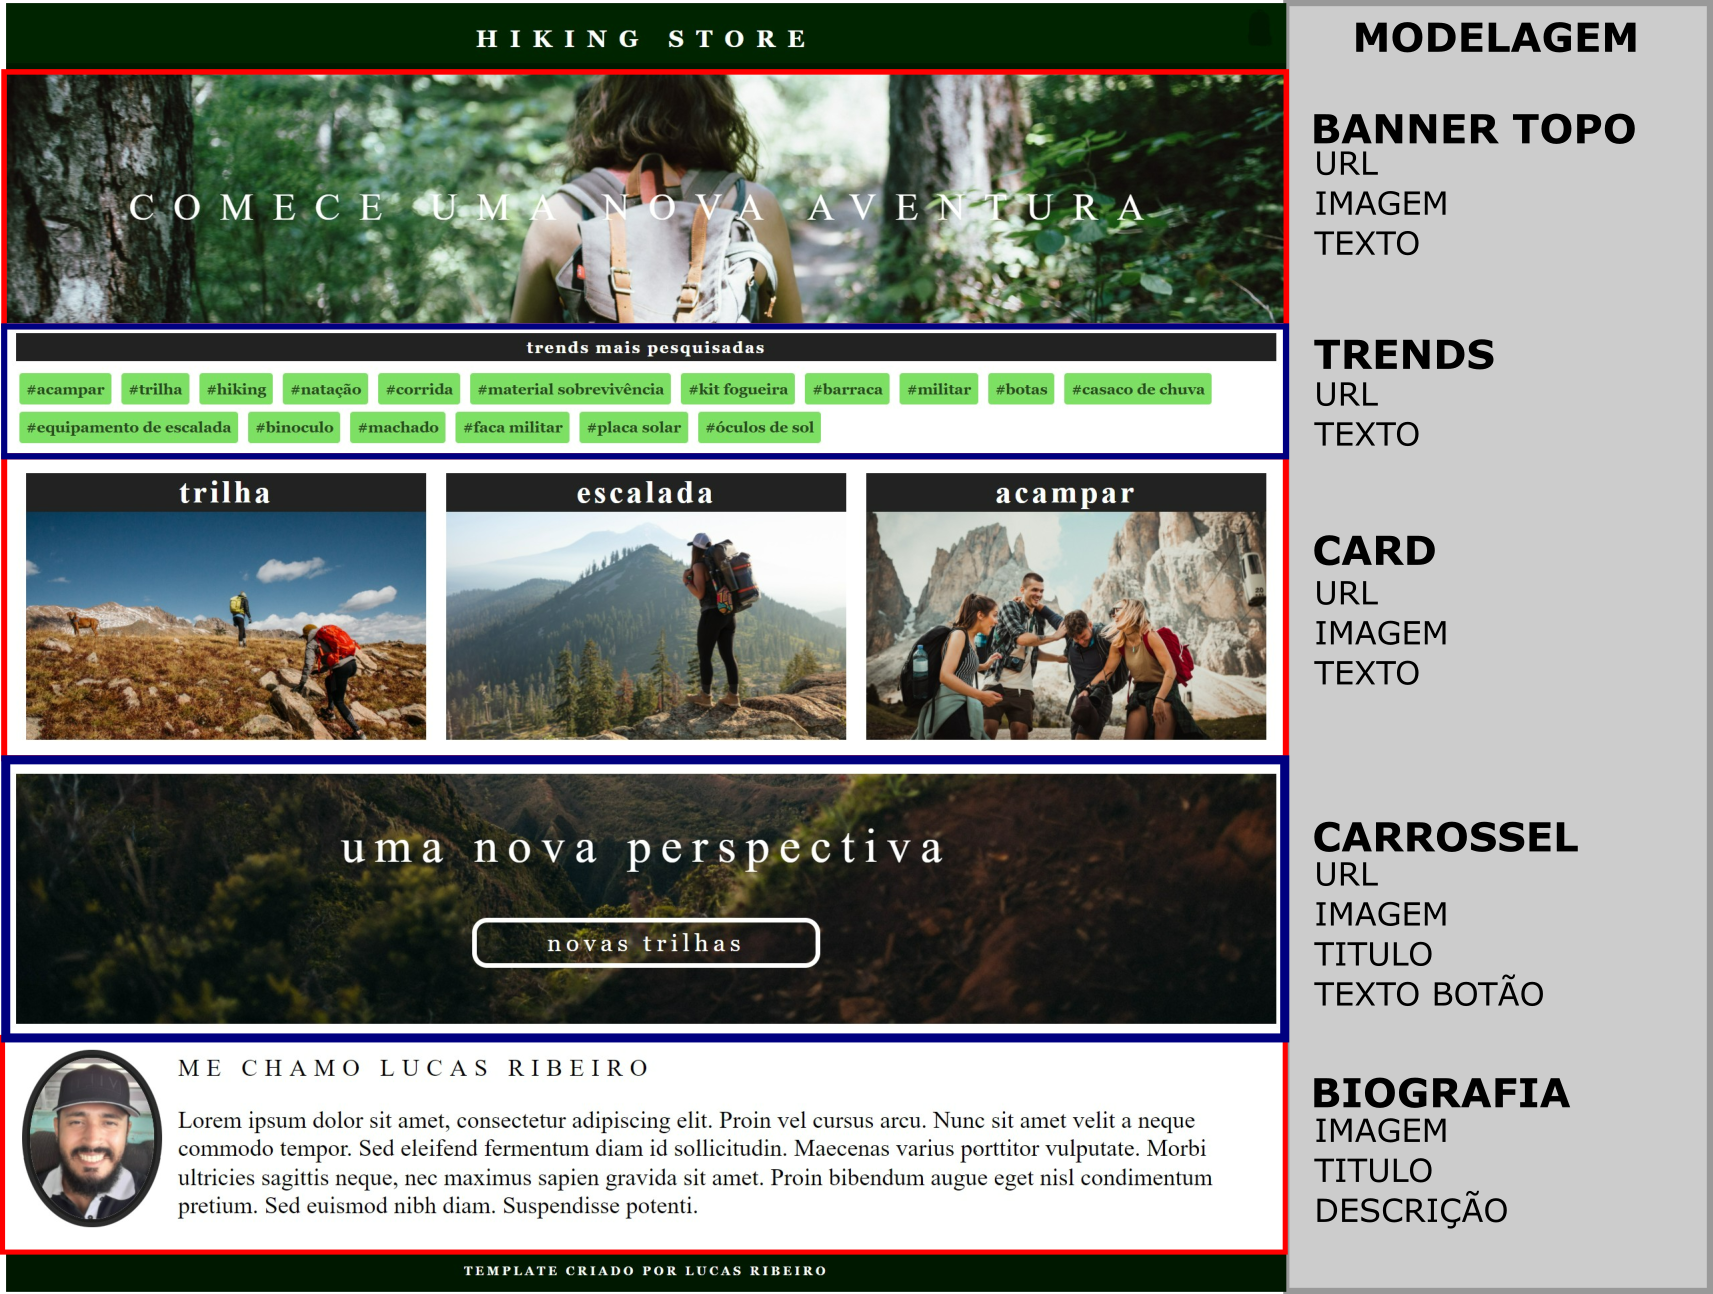
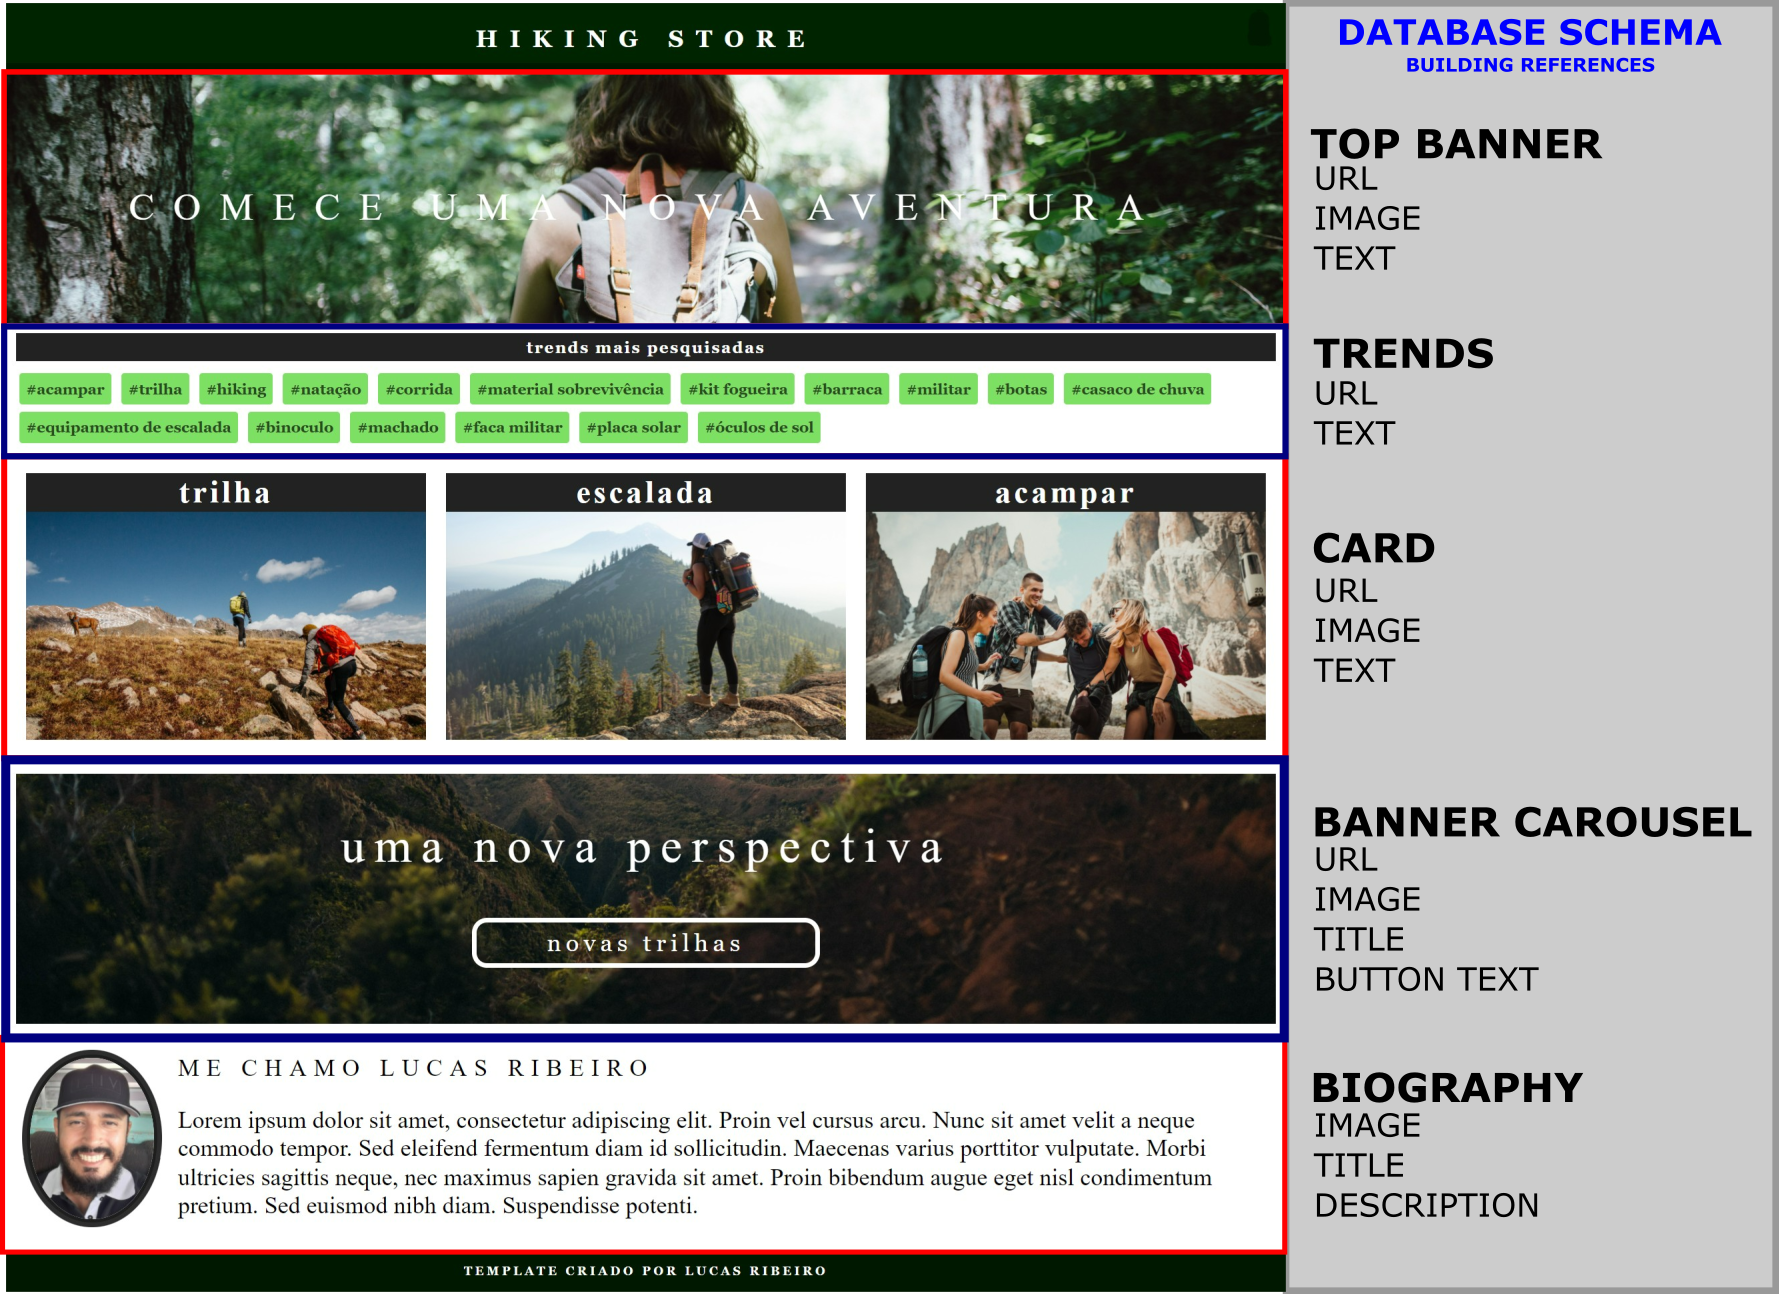
Translating to English Language

diff --git a/README.md b/README.md
@@ -1,4 +1,4 @@
-# Projeto Desenvolvido em HTML, CSS e Javascript
+# This project was developed with HTML, CSS, and JAVASCRIPT
 
 # Live Site
 https://lribeirodev.github.io/ProjetoWEM/
@@ -9,19 +9,19 @@ https://lribeirodev.github.io/ProjetoWEM/
 ## Desktop View
 <img src="/../master/static_files/screenshots/desktop.png" width="600px"/>
 
-## Conteúdo modelado para o projeto
+## Mackup Content Project
 
-### Modulos marcados no código
+### The code below shows us the components
 <img src="/../master/static_files/modelagem/Modulos.png" width="600px"/>
 
-### Modelagem feita na página
+### The webpage below shows us possible database schema
 <img src="/../master/static_files/modelagem/Modelagem.png" width="600px"/>
 
-<h2> Observações: </h2>
+<h2> Notes: </h2>
 <ul>
-<li>Aspecto #1 na criação do CTD devemos considerar que devem existir referências de imagem no formato desktop e mobile</li>
-
-<li>Aspecto #2 a modelagem é apenas uma base do modelo mais próximo do real, podendo em sua implementação ter alterações por exemplo na criação da tabela, o nome da coluna URL_IMAGEM_DESKTOP é melhor que URL_IMAGEM apenas.</li>
-
-<li>Aspecto #3 ao modelar a página, consideramos apenas um elemento base de cada modulo para seguirmos com a criação de sua FORMA para BOLO, assim uma imagem e texto que se repete varias vezes e tem o mesmo design utilizarão apenas um CTD utilizando as referências dentro da tabela</li>
+<li>Aspect #1 When creating CTD we should consider images references for desktop, and mobile</li>
+The mockup is just a base to the possible real model, however, while implementing the database could be alter, for example a table, a column name URL_IMAGE_DESKTOP is better then URL_IMAGE, because the more specific will turn things easy to the user undestand the implementation that was used for.
+<li>Aspect #2 The mockup is just a base to the possible real model, however, while making implementation the database could be altered, for example, a table, a column name URL_IMAGE_DESKTOP is better than URL_IMAGE because the more specific will turn things easy for the user to understand the implementation that was used for.</li>
+<li>Aspect #3 While shaping the page, we will consider that one element will be used to make a component, this is a SHAPE for our CAKE, now repeated images and text will use one CTD pointing to references inside the database.</li>
 </ul>
+
